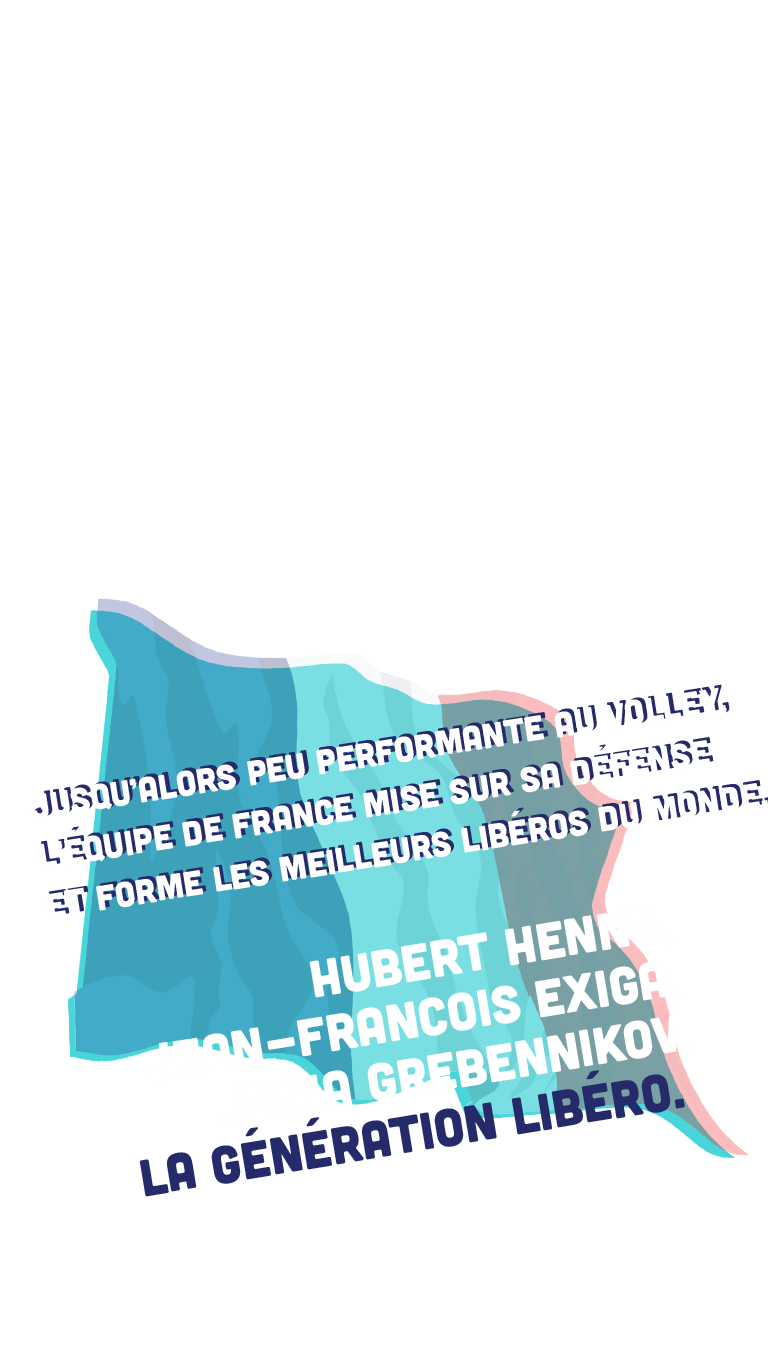
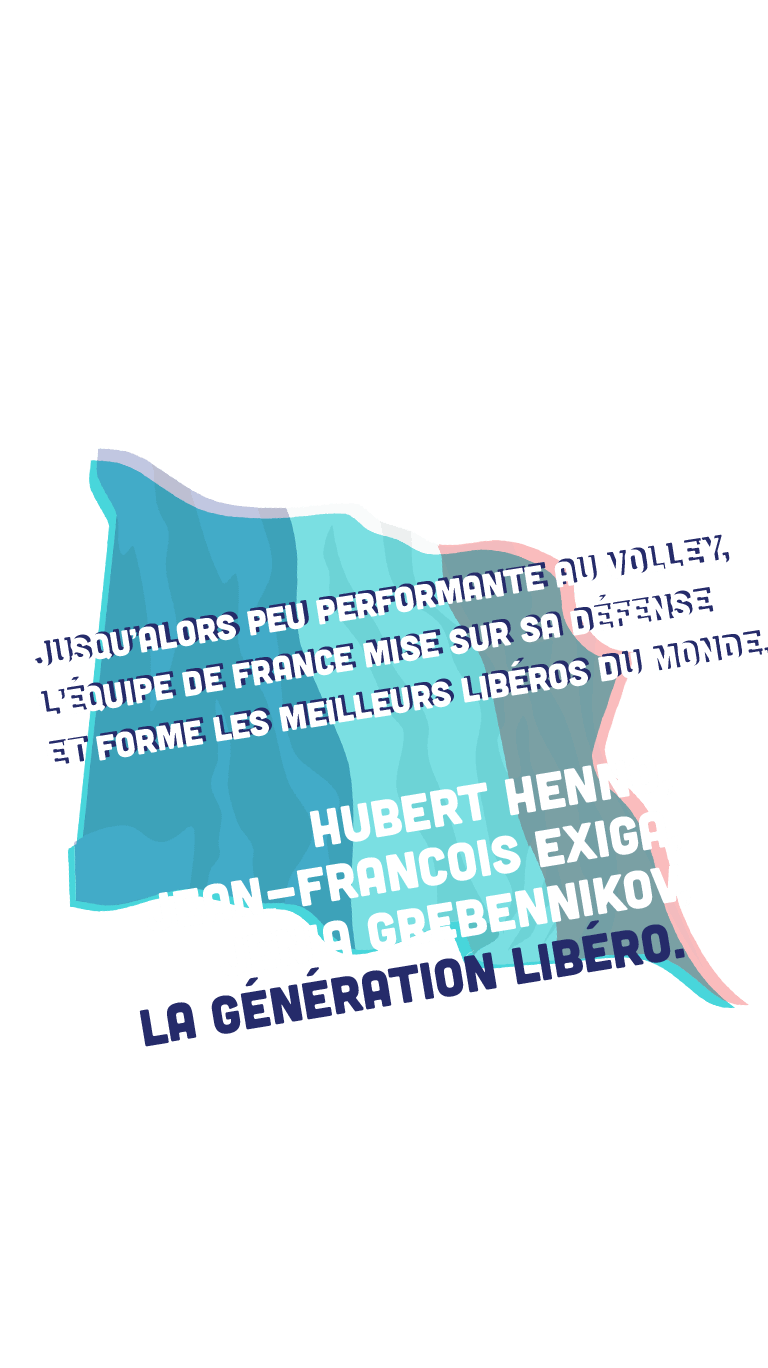
commit du matin

Changed region(s): [[0.0625, 0.307, 1.0, 0.8904]]

diff --git a/src/components/Board/Board.js b/src/components/Board/Board.js
@@ -70,9 +70,10 @@ export default class Board extends Component {
                     <Element name="CHAP00-MASQUE.png" index="p1"></Element>
                 </div>
                 <div className="Board__slide Board__slide--bottom">
+                <Edito content={this.props.datas.text[0].zone_2} positionBottom="10%"></Edito>
+                <Element name="gif1988.gif" index="p1"></Element>
                 </div>
                 <div className="Board__slide Board__slide--bottom">
-                    <Edito content={this.props.datas.text[0].zone_2} positionBottom="51%"></Edito>
                     <Element name="liberos-francais.png" index="p1"></Element>
                 </div>
                 {/* CHAP 1 */}
